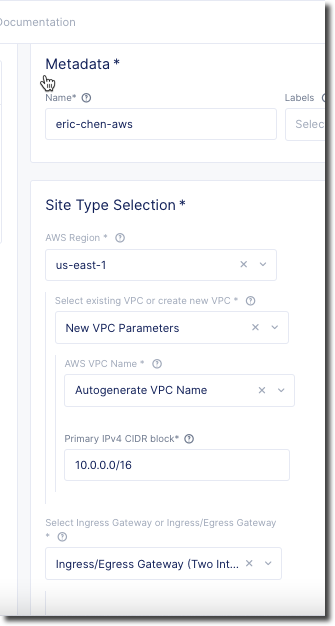
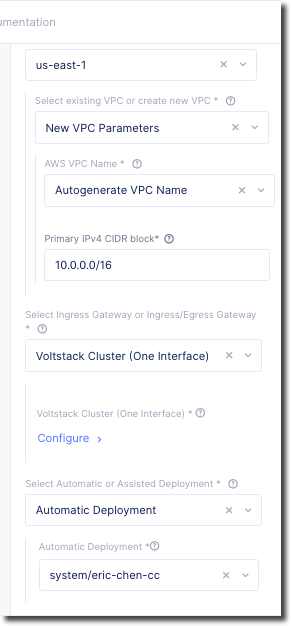
use voltstack

diff --git a/application/docs/conf.py b/application/docs/conf.py
@@ -61,7 +61,7 @@ import json
 
 aws_region = "us-west-2"
 try:
-    f = open('../terraform/terraform.auto.tfvars.json')
+    f = open('../../networking/terraform/terraform.auto.tfvars.json')
     d = json.load(f)
     aws_region = d['aws_region']
 except:

diff --git a/application/docs/state2/awssite.rst b/application/docs/state2/awssite.rst
@@ -7,6 +7,13 @@ uses a process that automates the steps of deploying the site.  This enables Vol
 to perform the deployment on behalf of the end-user (you can also use Terraform to deploy a 
 site, but that will be covered in a separate lab).
 
+.. note:: 
+  
+  The lab guide should include a recommended AWS region based on the geographic
+  region that you selected to run the lab.  Please be aware that any screen shots
+  that you see may differ from the recommended value.  i.e. if you see "eu-west-1"
+  ignore screenshots that include "us-east-1"
+
 Exercise 1: Deploy AWS Site
 ~~~~~~~~~~~~~~~~~~~~~~~~~~~
 
@@ -24,18 +31,16 @@ Under "New AWS Site" you will need to provide the following information:
 
 - AWS Region: |aws_region|
 - Primary IPv4 CIDR block: 10.0.0.0/16 
-- Change "Ingress Gateway" to "Ingress/Egress Gateway (Two Interface)"
-- Click on "Configure" (appears after "Select Ingress Gateway...)
+- Change "Ingress Gateway" to "Voltstack Cluster (One Interface)"
+- Click on "Configure" (appears after "Voltstack Cluster (One Interface) ...)
 
 Under the section for "Nodes" provide the following information
 
 - AWS AZ Name: |aws_zone|
 - Subnet Choices for Inside Interface change to "Subnet for Inside Interface"
-- Internal IPv4 Subnet: 10.0.3.0/24
-- Under "Workload Subnet" 
-- Workload IPv4 Subnet: 10.0.2.0/24
-- Under "Subnet for Outside Interface" 
-- External IPv4 Subnet: 10.0.0.0/24
+- Internal IPv4 Subnet: 10.0.0.0/24
+
+.. image:: voltconsole-aws-site-settings2.png
 
 Click on "Apply"
 
